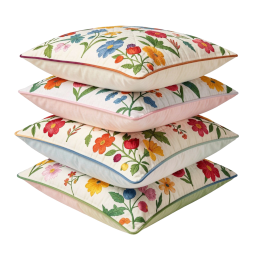
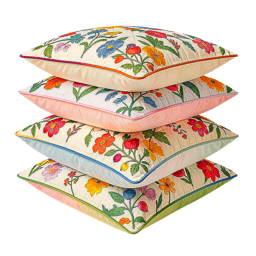
Added a PillowUI window screenshot
Enhanced the Pillow icon itself by increasing color saturation
Added original Pillows.png image

Changed region(s): [[0.0625, 0.0938, 0.9375, 0.9375]]

diff --git a/README.md b/README.md
@@ -45,6 +45,8 @@ python3 PillowUI.py
 
 ## Usage
 
+![PillowUI Window](Images/PillowUI-window.png)
+
 ### Pipeline
 
 The pipeline is an ordered list of steps. Each step references a plugin module with its own parameter values. The full pipeline executes sequentially on the source image — each step's output feeds the next step's input.
